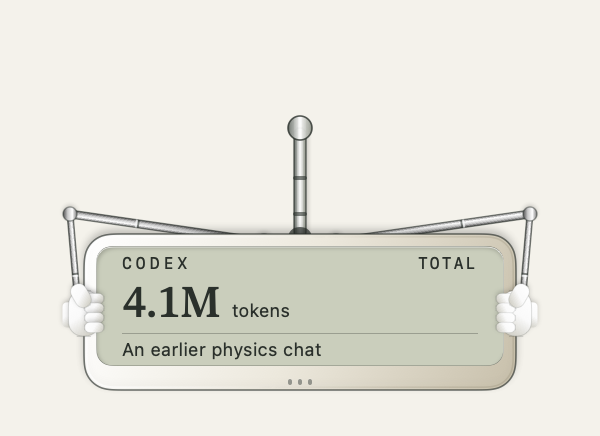
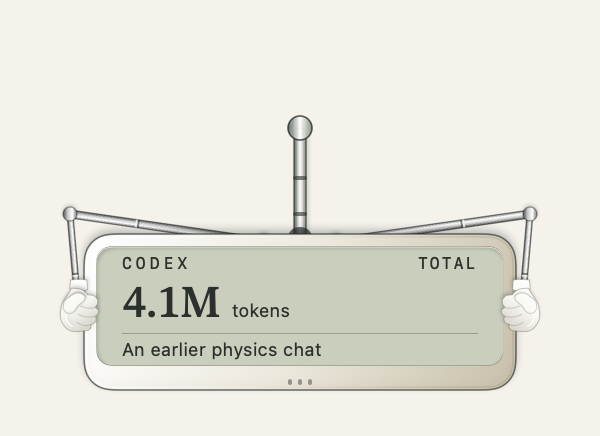
Give the token dashboard gloves a natural curled grip

Changed region(s): [[0.81, 0.6261, 0.9, 0.7752], [0.09, 0.6261, 0.18, 0.7752]]

diff --git a/Sources/App/TokenBotArtwork.swift b/Sources/App/TokenBotArtwork.swift
@@ -68,29 +68,84 @@ struct TokenBotArm: View {
     }
 }
 
-/// Four rounded fingers, a separate thumb and a cuff; no platform hand glyph.
+/// A connected, curled hand: unequal knuckles, an opposed thumb and a top cuff.
+/// Local coordinates stay inside the existing 29 × 38 grip envelope.
 struct TokenBotGlove: View {
     let classic: Bool
     let right: Bool
     private var white: AnyShapeStyle {
-        classic ? AnyShapeStyle(LinearGradient(colors: [.white, Color(white: 0.98), Color(red: 0.78, green: 0.77, blue: 0.72)], startPoint: .topLeading, endPoint: .bottomTrailing)) : AnyShapeStyle(Color.white)
+        classic ? AnyShapeStyle(LinearGradient(stops: [
+            .init(color: .white, location: 0),
+            .init(color: Color(red: 0.98, green: 0.975, blue: 0.955), location: 0.48),
+            .init(color: Color(red: 0.79, green: 0.78, blue: 0.73), location: 1)
+        ], startPoint: .topLeading, endPoint: .bottomTrailing)) : AnyShapeStyle(Color.white)
     }
+    private var seam: Color { Color(red: 0.48, green: 0.47, blue: 0.41).opacity(classic ? 0.48 : 0.6) }
     var body: some View {
         ZStack(alignment: .topLeading) {
-            RoundedRectangle(cornerRadius: 3).fill(white).frame(width: 9, height: 17).offset(x: 0, y: 13)
-            RoundedRectangle(cornerRadius: 10).fill(white).frame(width: 21, height: 31).offset(x: 4, y: 5)
-                .overlay(RoundedRectangle(cornerRadius: 10).stroke(Color.radioInk.opacity(0.18), lineWidth: 0.6).frame(width: 21, height: 31).offset(x: 4, y: 5))
-            ForEach(0..<4) { finger in
-                Capsule().fill(white).frame(width: 13, height: 7)
-                    .overlay(Capsule().stroke(Color.radioInk.opacity(0.13), lineWidth: 0.5))
-                    .offset(x: 15, y: 7 + CGFloat(finger) * 6.5)
+            cuff.fill(white)
+                .overlay(cuff.stroke(seam, lineWidth: 0.6))
+            palm.fill(white)
+                .overlay(palm.stroke(seam, style: StrokeStyle(lineWidth: 0.65, lineJoin: .round)))
+            // Short creases divide curled fingers without outlining separate pills.
+            fingerCreases.stroke(seam.opacity(0.8), style: StrokeStyle(lineWidth: 0.6, lineCap: .round))
+            thumb.fill(white)
+                .shadow(color: .black.opacity(classic ? 0.13 : 0), radius: 0.6, x: 0.6, y: 0.8)
+                .overlay(thumb.stroke(seam.opacity(0.8), style: StrokeStyle(lineWidth: 0.55, lineJoin: .round)))
+            if classic {
+                Path { p in
+                    p.move(to: CGPoint(x: 6.4, y: 24.5))
+                    p.addCurve(to: CGPoint(x: 10.5, y: 32.5), control1: CGPoint(x: 5.9, y: 28), control2: CGPoint(x: 7.5, y: 31.5))
+                }.stroke(.white.opacity(0.75), style: StrokeStyle(lineWidth: 1.1, lineCap: .round))
             }
-            Capsule().fill(white).frame(width: 11, height: 17)
-                .overlay(Capsule().stroke(Color.radioInk.opacity(0.14), lineWidth: 0.6))
-                .rotationEffect(.degrees(-30)).offset(x: 7, y: 0)
         }.frame(width: 29, height: 38)
             .scaleEffect(x: right ? -1 : 1, y: 1)
-            .shadow(color: .black.opacity(classic ? 0.18 : 0), radius: 1.5, y: 1.5)
+            .shadow(color: .black.opacity(classic ? 0.18 : 0), radius: 1.2, x: right ? -0.5 : 0.5, y: 1.2)
             .accessibilityHidden(true)
+    }
+    private var cuff: Path {
+        Path { p in
+            p.move(to: CGPoint(x: 9.5, y: 1.5))
+            p.addQuadCurve(to: CGPoint(x: 20.5, y: 1.5), control: CGPoint(x: 15, y: 0))
+            p.addLine(to: CGPoint(x: 21, y: 8))
+            p.addQuadCurve(to: CGPoint(x: 9, y: 8), control: CGPoint(x: 15, y: 10))
+            p.closeSubpath()
+        }
+    }
+    private var palm: Path {
+        Path { p in
+            p.move(to: CGPoint(x: 10, y: 7))
+            p.addCurve(to: CGPoint(x: 21, y: 11.5), control1: CGPoint(x: 15, y: 7), control2: CGPoint(x: 19, y: 7.5))
+            // Index, middle, ring and little finger form one tapered silhouette.
+            p.addCurve(to: CGPoint(x: 26, y: 20), control1: CGPoint(x: 29, y: 11), control2: CGPoint(x: 29, y: 17.5))
+            p.addCurve(to: CGPoint(x: 26, y: 26), control1: CGPoint(x: 29.5, y: 21), control2: CGPoint(x: 29, y: 24.5))
+            p.addCurve(to: CGPoint(x: 23, y: 31.5), control1: CGPoint(x: 28, y: 28.5), control2: CGPoint(x: 26, y: 31))
+            p.addCurve(to: CGPoint(x: 17, y: 36), control1: CGPoint(x: 24, y: 35), control2: CGPoint(x: 21, y: 36))
+            p.addCurve(to: CGPoint(x: 5, y: 32), control1: CGPoint(x: 11, y: 37), control2: CGPoint(x: 7, y: 35.5))
+            p.addCurve(to: CGPoint(x: 3, y: 21), control1: CGPoint(x: 2.5, y: 29), control2: CGPoint(x: 2, y: 24))
+            p.addCurve(to: CGPoint(x: 10, y: 7), control1: CGPoint(x: 3.5, y: 15), control2: CGPoint(x: 8, y: 12))
+            p.closeSubpath()
+        }
+    }
+    private var fingerCreases: Path {
+        Path { p in
+            p.move(to: CGPoint(x: 16, y: 19))
+            p.addCurve(to: CGPoint(x: 26, y: 20), control1: CGPoint(x: 20, y: 20.5), control2: CGPoint(x: 23, y: 21))
+            p.move(to: CGPoint(x: 14.5, y: 24.5))
+            p.addCurve(to: CGPoint(x: 26, y: 26), control1: CGPoint(x: 18, y: 26.5), control2: CGPoint(x: 22.5, y: 27))
+            p.move(to: CGPoint(x: 13.5, y: 30))
+            p.addCurve(to: CGPoint(x: 23, y: 31.5), control1: CGPoint(x: 16.5, y: 32), control2: CGPoint(x: 20, y: 33))
+        }
+    }
+    private var thumb: Path {
+        Path { p in
+            p.move(to: CGPoint(x: 6, y: 23))
+            p.addCurve(to: CGPoint(x: 7, y: 14), control1: CGPoint(x: 3.5, y: 20), control2: CGPoint(x: 4.5, y: 16))
+            p.addCurve(to: CGPoint(x: 16.5, y: 10.5), control1: CGPoint(x: 10, y: 12), control2: CGPoint(x: 12.5, y: 9))
+            p.addCurve(to: CGPoint(x: 18, y: 16), control1: CGPoint(x: 20, y: 11.5), control2: CGPoint(x: 20, y: 14))
+            p.addCurve(to: CGPoint(x: 13, y: 21), control1: CGPoint(x: 16, y: 17.5), control2: CGPoint(x: 14.5, y: 18.5))
+            p.addCurve(to: CGPoint(x: 6, y: 23), control1: CGPoint(x: 11.5, y: 24), control2: CGPoint(x: 8, y: 25))
+            p.closeSubpath()
+        }
     }
 }

diff --git a/Sources/App/Main.swift b/Sources/App/Main.swift
@@ -41,6 +41,13 @@ struct LittleRadioApp {
         model.configuration.enabledChannels = ["codex"]
         model.codex.window = .lifetime
         model.codex.selectSession("preview-old")
+        for classic in [true, false] {
+            let detail = HStack(spacing: 24) {
+                TokenBotGlove(classic: classic, right: false).scaleEffect(3).frame(width: 87, height: 114)
+                TokenBotGlove(classic: classic, right: true).scaleEffect(3).frame(width: 87, height: 114)
+            }.padding(20).background(Color(red: 0.91, green: 0.90, blue: 0.86)).preferredColorScheme(.light)
+            renderNative(detail, to: directory.appendingPathComponent("gloves-\(classic ? "Classic" : "Flat").png"), size: CGSize(width: 238, height: 154))
+        }
         for language in [RadioLanguage.english, .simplified, .traditional] {
             for classic in [true, false] {
                 for progress in [0.0, 0.5, 1.0] {

diff --git a/docs/VERIFICATION.md b/docs/VERIFICATION.md
@@ -1,4 +1,15 @@
-# Verification · v0.9.1
+# Verification · v0.9.2
+
+Checked on 19 October 2026. This revision changes only glove artwork, adds enlarged glove renders to the sample renderer, and increments the app version to build 22.
+
+- Release build and strict ad-hoc signature verification passed; the installed executable matches the built executable.
+- The existing 1,818-pose geometry checks and native drag, display-reposition and compact/full-radio roundtrip checks passed. No new behavior tests were added for this artwork-only revision; the full offline suite last passed in v0.9.1.
+- Reviewed Classic and Flat glove close-ups and compact/expanded native renders. Fingers form a connected tapered outline with curved separators; an opposed thumb and top cuff replace the previous stack of capsules.
+- The installed Traditional Chinese app was checked with live readings. Both glove controls still expand/retract the belly, and the widget was left compact. Saved preferences exactly match the pre-update export. The previous app bundle is retained for rollback.
+
+---
+
+## Previous verification · v0.9.1
 
 Checked on 19 October 2026 with the native macOS build.
 

diff --git a/docs/superpowers/specs/2026-10-19-belly-token-bot.md b/docs/superpowers/specs/2026-10-19-belly-token-bot.md
@@ -1,5 +1,9 @@
 # Catecho belly token bot
 
+## Glove refinement
+
+The user found the fingers unnatural. Replace the repeated capsule fingers with a connected curved palm, staggered knuckles, an opposed bent thumb and a cuff aligned with the antenna arm. Keep the existing 29 × 38 drawing envelope, white fabric material, mirrored grip, compact size and interactions. Verify native renders at actual size and enlarged in both appearances.
+
 ## Approved appearance correction
 
 The user subsequently chose **Original small antenna widget**. Preserve its 54 × 126-point resting footprint, chrome shaft and 42 × 26-point cream base. Remove the larger head and face. Fold small white gloves at the sides of the base; show the current token count in a tiny e-paper inset. Opening extends the base into a 216 × 78-point belly dashboard held by telescopic arms. The reserved window is 260 × 178 points. The top antenna still opens the full radio. The lower rim moves the widget. Keep the existing monitor, controls, translations and accessibility behavior.
